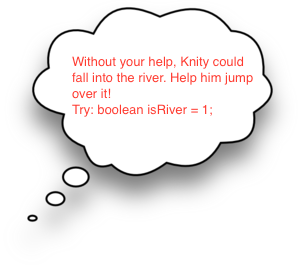
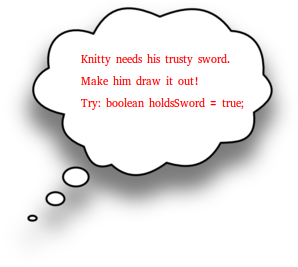
stage 3 pre-animation

Changed region(s): [[0.2416, 0.2097, 0.8456, 0.4494], [0.0906, 0.3596, 0.9362, 0.779]]

diff --git a/console/console.html b/console/console.html
@@ -26,14 +26,17 @@
 </div>
 
 <div class="stage3">
-  <p> This is stage 3 </p>
+  <img class="tip" src="../level3/integer.png" />
+  <img id="knightstage1" src="../images/LittleKnight/png/Idle (10).png"/>
 </div>
 
 <div class="stage4">
+  <img class="tip" src="../level4/loop.png" />
   <p> This is stage 4 </p>
 </div>
 
 <div class="stage5">
+  <img class="tip" src="../level3/boolean.png" />
   <p> This is stage 5 </p>
 </div>
 
@@ -65,7 +68,7 @@
 <span class="container2">
   <span class="stage1"> Print "Hello!": </span>
   <span class="stage2"> Create a variable with your name: </span>
-  <span class="stage3"> Stage 3: </span>
+  <span class="stage3"> Call the method "takeStep": </span>
   <span class="stage4"> Stage 4: </span>
   <span class="stage5"> Stage 5: </span>
   <span class="stage6"> Stage 6: </span>

diff --git a/console/console.js b/console/console.js
@@ -59,9 +59,20 @@ function checkStage(i)
         {
           alert("Sorry. That is wrong");
           document.getElementById("thought").classList.remove("speech");
-          document.getElementById("thought").innerHTML = "";  
+          document.getElementById("thought").innerHTML = "";
         }
         break;
+        case 3:
+          var inp=document.getElementById("consolein").value;
+          if (inp=="takeStep();")
+          {
+
+          }
+          else
+          {
+            alert("Sorry. That is wrong");
+          }
+          break;
 
 
   }
